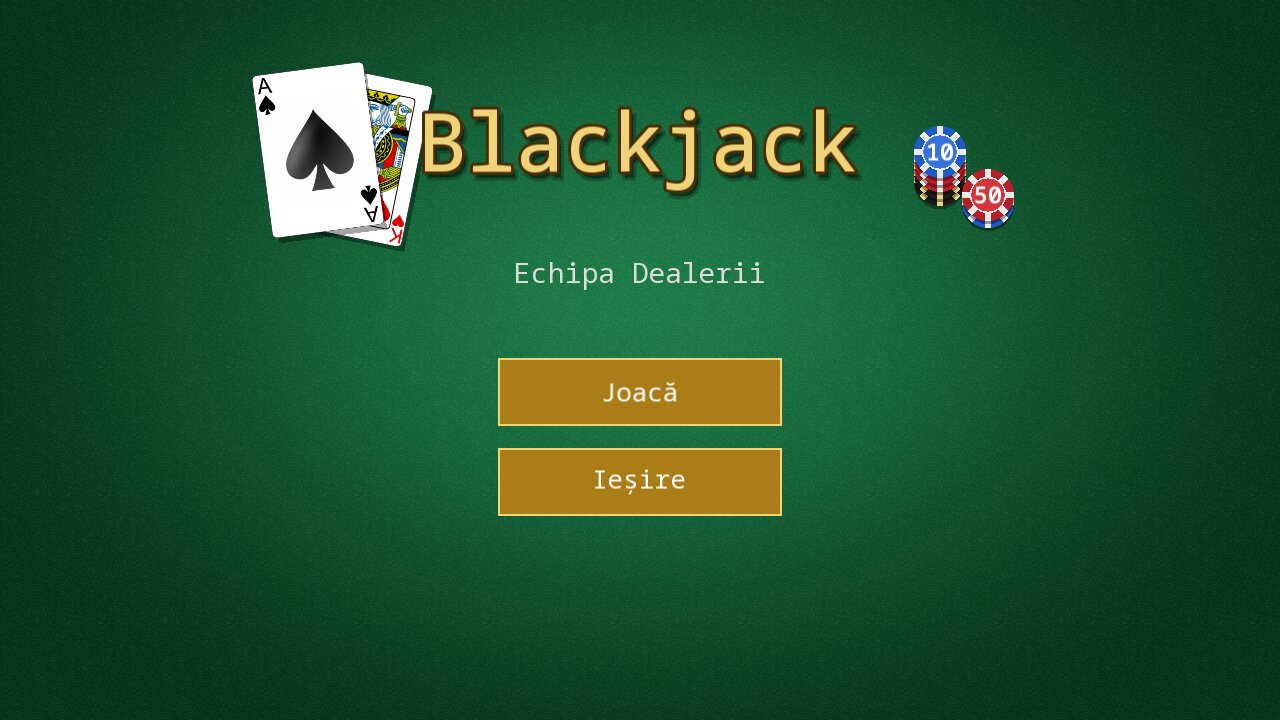
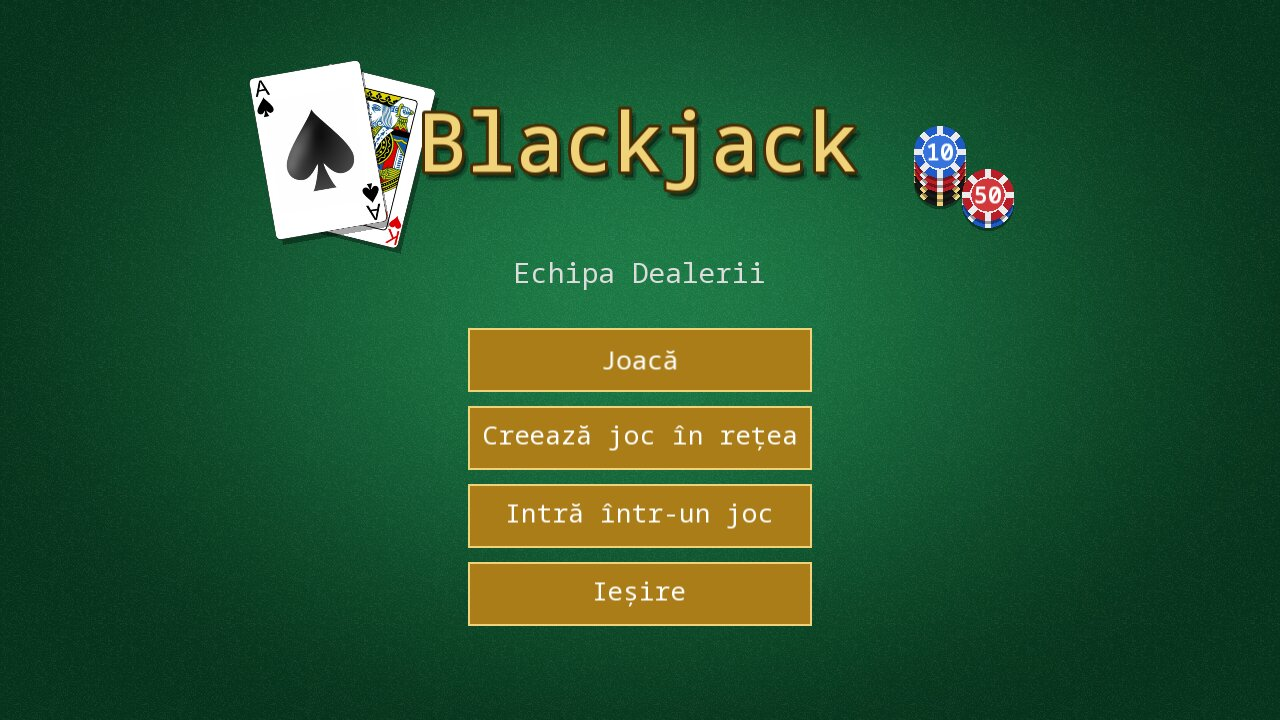
Write the README
What the game does, how to build and run it on Windows and Linux, how to
play locally and over the network, the project layout, the design
patterns and links to the docs. The menu screenshot now shows the
network buttons.

Changed region(s): [[0.3438, 0.4583, 0.6562, 0.8861], [0.2188, 0.0917, 0.3438, 0.3667], [0.1875, 0.0917, 0.2188, 0.1833]]

diff --git a/README.md b/README.md
@@ -1,1 +1,128 @@
 # Blackjack Multiplayer
+
+Joc de blackjack pentru 1–4 jucători, în C++23 cu SFML 3. Se poate juca la același calculator,
+pe rând, sau în rețea, fiecare de pe calculatorul lui.
+
+Proiect pentru Inginerie Software, echipa **Dealerii**.
+
+| Meniu | Masa |
+|---|---|
+| ![Meniul](docs/frontend-ecrane/01_meniu.jpg) | ![Masa în timpul jocului](docs/frontend-ecrane/04_masa_in_joc.jpg) |
+
+## Ce știe jocul
+
+- 1–4 jucători la același calculator, pe rând, sau 2–4 în rețea locală, câte unul pe calculator
+- pariuri cu jetoane (minim 10, maxim 500), Hit, Stand, Double
+- dealerul trage până la 17; blackjack plătește 3:2, câștigul 1:1, egalul își păstrează pariul
+- animații pentru cărți și jetoane, sunete, ecran de rezultat după fiecare rundă
+- fereastră redimensionabilă și ecran complet (F11)
+
+## Cum se compilează și se pornește
+
+Codul e în folderul `game/`. SFML și celelalte biblioteci se descarcă singure la prima
+configurare (prin CPM), deci prima dată durează câteva minute.
+
+### Windows (Visual Studio)
+
+1. Deschide folderul `game/` în Visual Studio (File → Open → Folder).
+2. Așteaptă să se termine configurarea CMake și alege presetul **x64 Debug (MSVC)**.
+3. Alege ținta **Frontend.exe (Install)** și apasă **F5**.
+
+Din linie de comandă („x64 Native Tools Command Prompt for VS”):
+
+```bat
+cd game
+cmake --preset x64-debug
+cmake --build --preset x64-debug
+out\install\x64-debug\bin\Frontend.exe
+```
+
+### Linux
+
+Trebuie: `clang`, `cmake`, `ninja` și bibliotecile de dezvoltare pentru fereastră folosite de
+SFML. Pe Fedora:
+
+```bash
+sudo dnf install clang cmake ninja-build libX11-devel libXrandr-devel libXcursor-devel \
+    libXi-devel mesa-libGL-devel systemd-devel
+```
+
+Apoi:
+
+```bash
+cd game
+cmake --preset x64-debug-clang
+cmake --build --preset x64-debug-clang
+cd out/install/x64-debug-clang/bin && ./Frontend
+```
+
+Jocul se pornește din folderul în care e executabilul, altfel nu își găsește `assets/`
+(cărțile, fontul). După un `git pull` care aduce fișiere noi, rulați din nou
+`cmake --preset ...`, nu doar build-ul.
+
+## Cum se joacă
+
+**La același calculator:** Meniu → **Joacă** → adaugă 1–4 jucători → **Start**.
+
+**În rețea** (același Wi-Fi sau cablu):
+- un calculator e gazda: Meniu → **Creează joc în rețea** → numele → **Creează**. Pe ecran
+  apare adresa (ex. `192.168.1.5`);
+- ceilalți: Meniu → **Intră într-un joc** → numele și adresa gazdei → **Conectează-te**;
+- gazda apasă **Start** când au intrat toți.
+
+Firewall-ul gazdei trebuie să permită portul 53000 (Windows întreabă singur; pe Fedora:
+`sudo firewall-cmd --add-port=53000-53009/tcp`). Detalii în
+[`docs/joc-in-retea`](docs/joc-in-retea/README.md).
+
+| Tastă | Ce face |
+|---|---|
+| H / S / D | Hit / Stand / Double (sau butoanele de pe masă) |
+| Enter | Confirmă pariul; „Runda următoare” pe ecranul de rezultat |
+| Backspace | Șterge pariul |
+| Escape | Înapoi la meniu |
+| M | Sunet oprit / pornit |
+| F11 | Ecran complet |
+
+## Cum e organizat
+
+```
+game/
+├── Backend/    logica jocului și jocul în rețea (bibliotecă dinamică, fără grafică)
+│   ├── include/Backend/       API-ul: interfețe (IGame, IGameListener, IPlayer, IDeck,
+│   │                          INetworkHost, INetworkClient, ...), enum-uri, Card
+│   ├── include/Backend/game/  implementarea jocului (Game, Player, Dealer, Deck)
+│   └── include/Backend/net/   implementarea rețelei (NetworkHost, NetworkClient, RemoteGame, ...)
+├── Frontend/   interfața grafică (SFML): ecrane, masa, animații, sunete
+└── cmake/      dependențele (SFML)
+```
+
+- **Backend**-ul expune doar interfețe și enum-uri; jocul se creează cu `IGame::Produce()`,
+  iar cel în rețea cu `INetworkHost::Produce()` / `INetworkClient::Produce()`.
+- **Frontend**-ul nu conține reguli de joc: masa arată ce îi spune jocul și îl întreabă ce e
+  permis (`CanPlaceBet`, `CanDoubleDown`, `IsBusted`).
+- **Unit testele** (GoogleTest + GoogleMock) vor fi al treilea proiect, `game/Tests`.
+
+### Design patterns
+
+| Pattern | Unde |
+|---|---|
+| **Observer** | `IGameListener`: jocul anunță tot ce se schimbă, iar masa (prin `GameController`) și rețeaua (`EventEncoder`) ascultă; `INetworkListener` pentru lobby-ul din rețea |
+| **Factory Method** | `IGame::Produce()`, `INetworkHost::Produce()`, `INetworkClient::Produce()` |
+| **Proxy** | `RemoteGame`: pe calculatorul unui jucător din rețea ține locul jocului gazdei, cu aceeași interfață `IGame` |
+| **Decorator** | `HostedGame`: jocul real al gazdei, care în plus anunță rețeaua când nu mai poate porni nicio rundă |
+| **Adapter** | `GameController`: traduce anunțurile jocului în funcțiile mesei |
+| **State** | ecranele aplicației (`Screen`, `ScreenManager`) |
+| **Strategy** | `GameSession`: masa primește jocul local (`LocalSession`) sau din rețea (`NetworkSession`) |
+
+## Documentație
+
+| | |
+|---|---|
+| [`docs/uml`](docs/uml/README.md) | Use Case Diagram și Class Diagrams (jocul și jocul în rețea) |
+| [`docs/frontend-ecrane`](docs/frontend-ecrane/README.md) | Ecranele, masa și legătura cu jocul |
+| [`docs/frontend-componente`](docs/frontend-componente/README.md) | Componentele de desen: cărți, jetoane, fundal, sunete |
+| [`docs/joc-in-retea`](docs/joc-in-retea/README.md) | Jocul în rețea: cum se joacă și cum funcționează |
+| [`documentatie_programatori.pdf`](documentatie_programatori.pdf) | Reguli de cod și cum se deschide proiectul în Visual Studio / VS Code |
+
+Cărțile sunt din setul public domain al lui Byron Knoll (vezi
+`game/Frontend/assets/cards/CREDITS.txt`).
